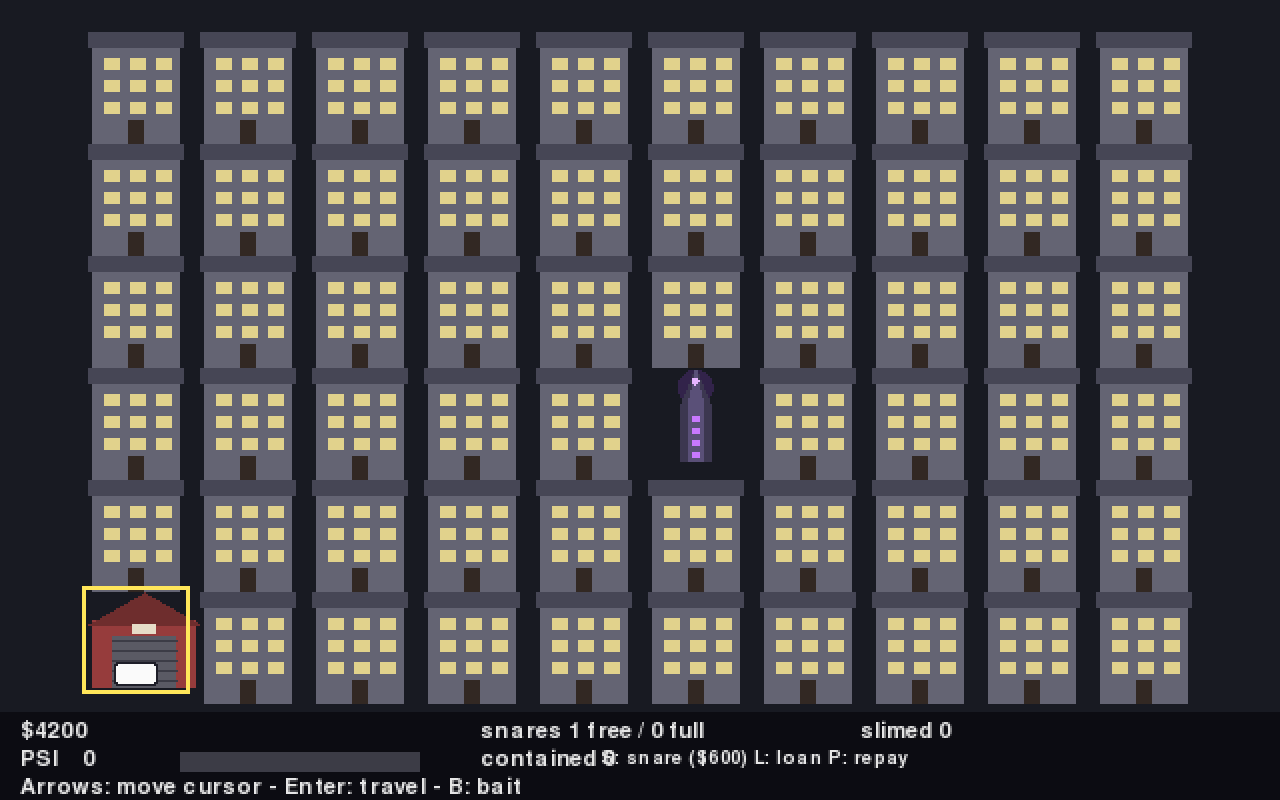
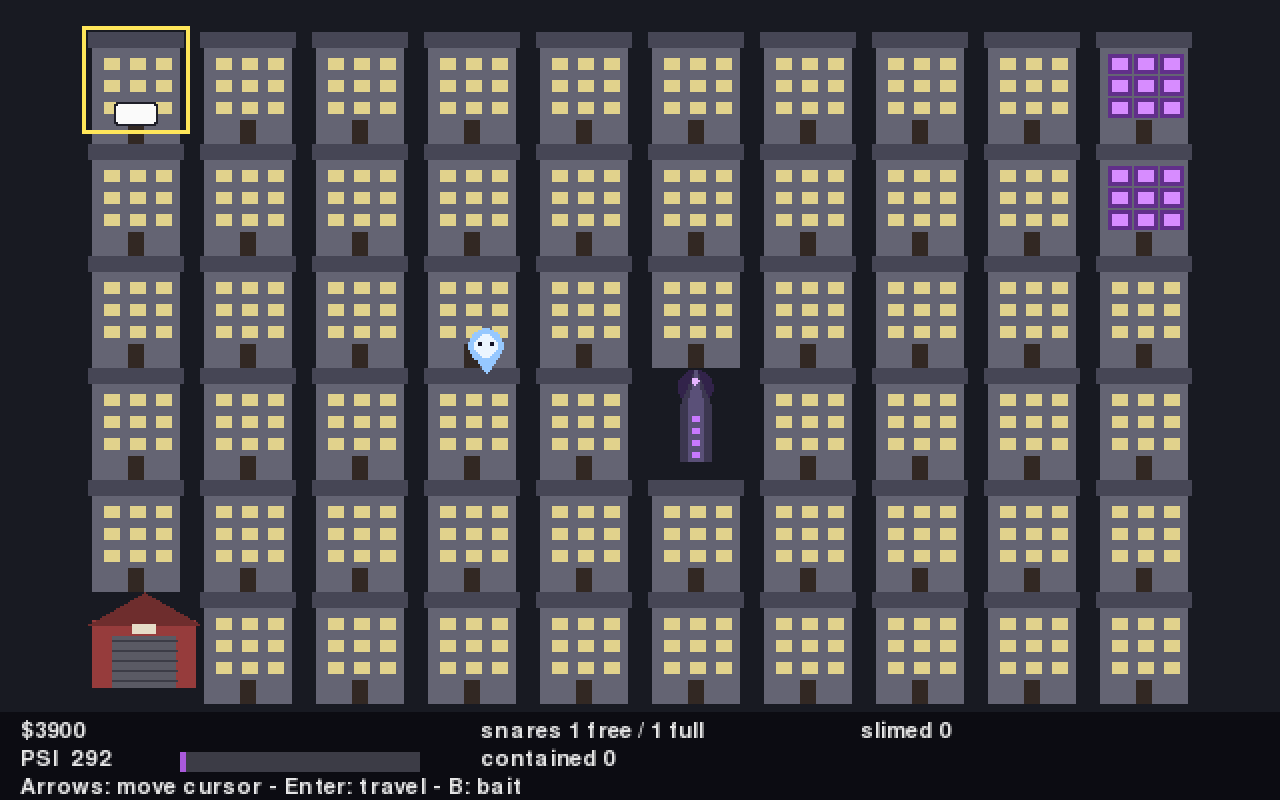
docs: swap the title-screen shot for a bust action shot
The login/name-entry screen wasn't a great first impression for the
README. Replaced it with a bust screenshot (ghost between the two
beam-cleaners) and refreshed the city-map shot to one with haunted
buildings and a wisp visible, so both images now show actual
gameplay rather than a text-entry form.

diff --git a/README.md b/README.md
@@ -13,8 +13,8 @@ concept-by-concept theme mapping is in
 (section 3).
 
 <p align="center">
-  <img src="docs/screenshots/title.png" width="49%" alt="Title screen with the code-generated logo and karaoke lyric line">
-  <img src="docs/screenshots/city-map.png" width="49%" alt="City map with buildings, the Depot, and the HUD">
+  <img src="docs/screenshots/city-map.png" width="49%" alt="City map with the Depot, a wisp, haunted buildings, and the HUD">
+  <img src="docs/screenshots/bust.png" width="49%" alt="Busting a stain-ghost between two beam-cleaners">
 </p>
 
 Every sprite, sound, and melody shown above is generated in code at startup — no image or